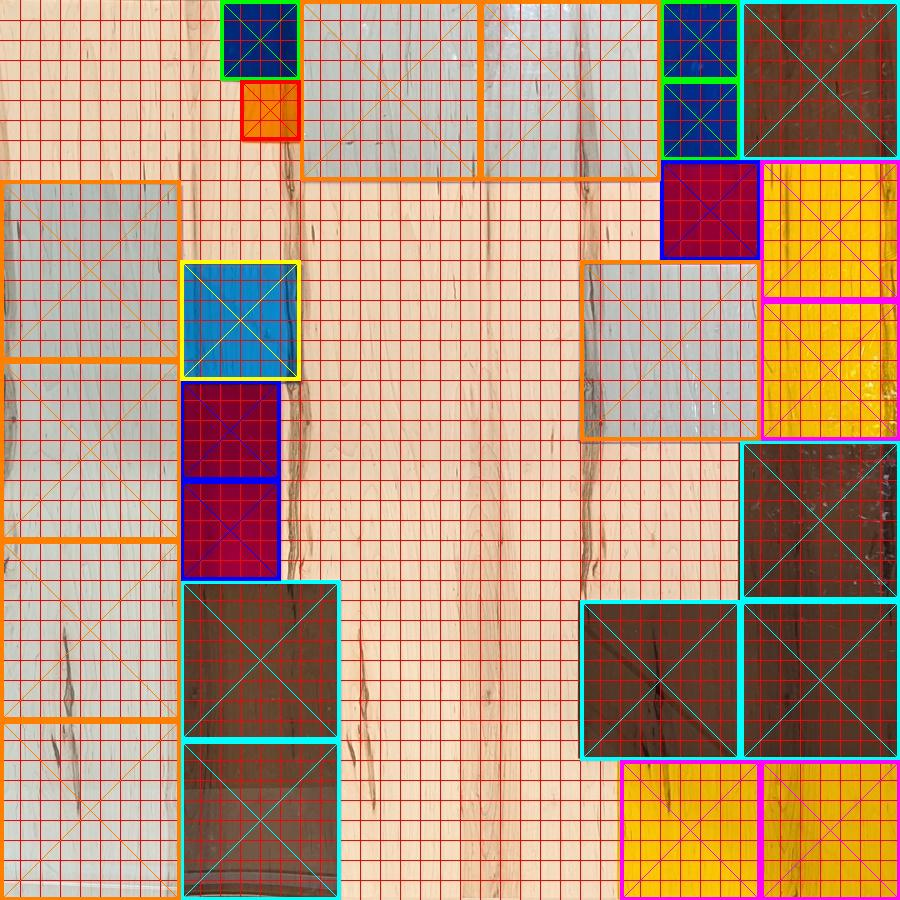
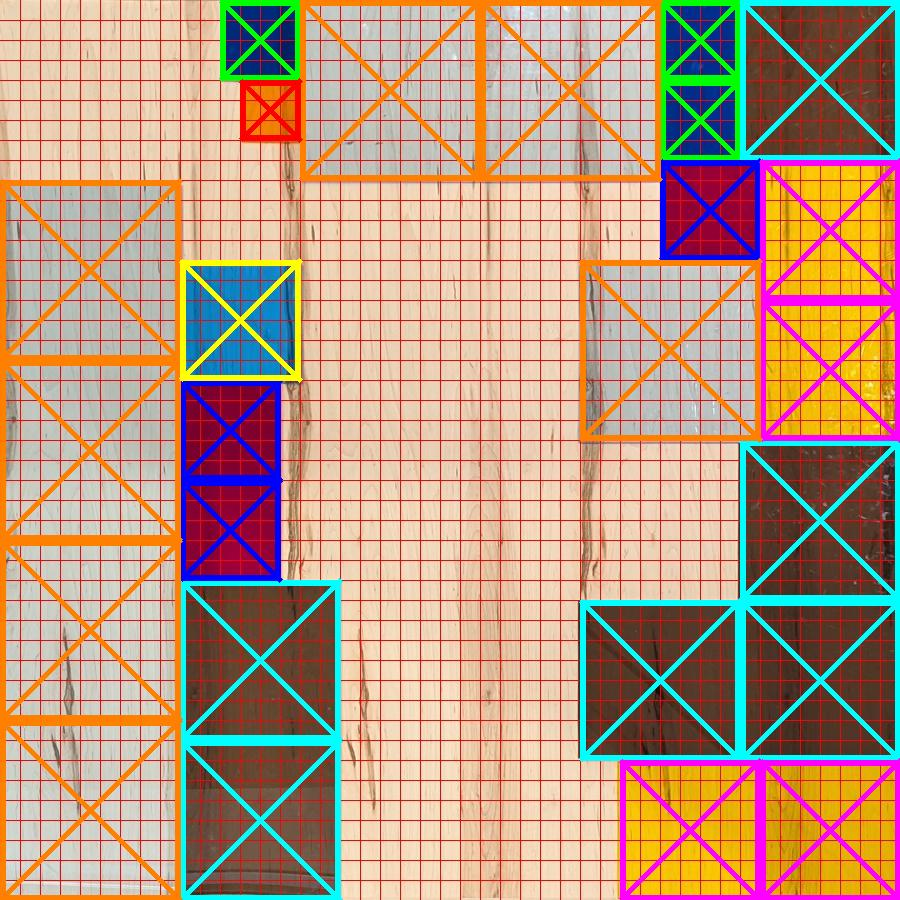
Draw rest of images

diff --git a/draw_squares.py b/draw_squares.py
@@ -45,18 +45,18 @@ def draw_square_with_cross(draw, bottom_left_x, bottom_left_y, size, color, grid
     draw.rectangle([
         pixel_x, pixel_y,
         pixel_x + square_width, pixel_y + square_height
-    ], outline=color, width=4)
+    ], outline=color, width=6)
     
     # Draw diagonal cross
     draw.line([
         pixel_x, pixel_y,
         pixel_x + square_width, pixel_y + square_height
-    ], fill=color, width=1)
+    ], fill=color, width=6)
     
     draw.line([
         pixel_x + square_width, pixel_y,
         pixel_x, pixel_y + square_height
-    ], fill=color, width=1)
+    ], fill=color, width=6)
 
 def process_image(json_file_path, image_file_path, output_path):
     """Process a single JSON file and corresponding image"""
